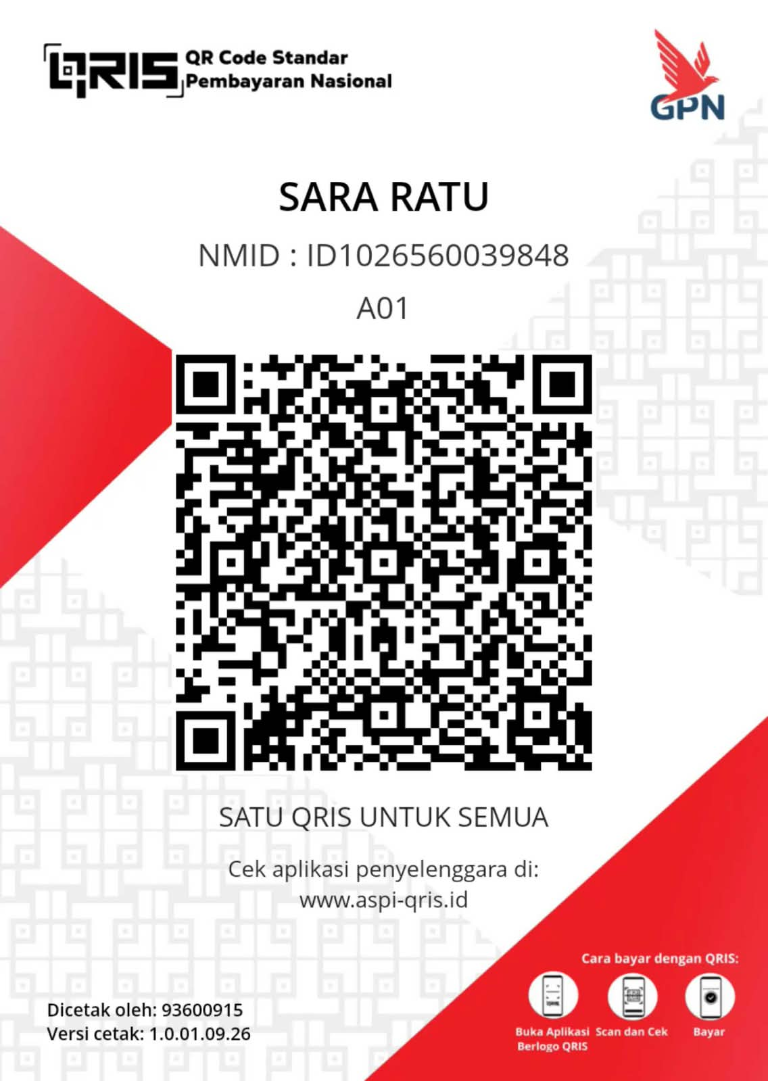
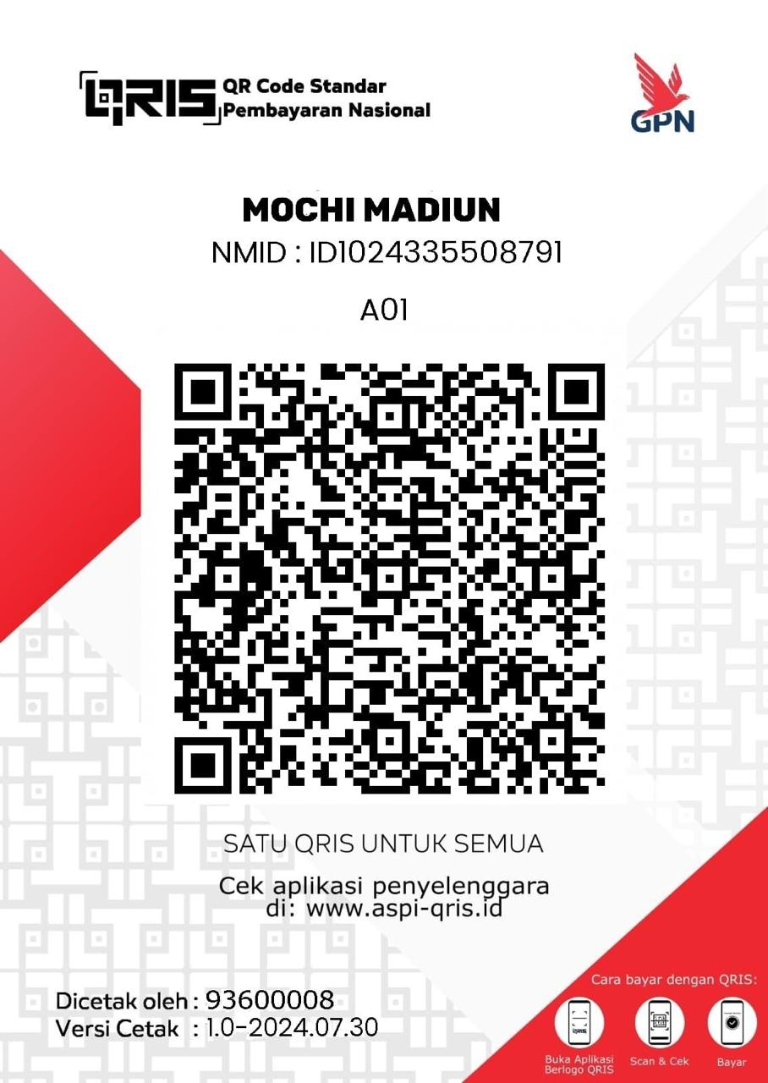
Perbarui QRIS dan rapikan antrean order

diff --git a/resources/css/app.css b/resources/css/app.css
@@ -3483,7 +3483,7 @@ body.login-page {
 
 .customer-order-queue {
     display: grid;
-    grid-template-columns: repeat(2, minmax(0, 1fr));
+    grid-template-columns: repeat(auto-fit, minmax(min(100%, 420px), 1fr));
     gap: 14px;
 }
 

diff --git a/resources/views/customer-orders/cashier-index.blade.php b/resources/views/customer-orders/cashier-index.blade.php
@@ -11,7 +11,9 @@
     <header class="catalog-topbar">
         <a class="catalog-brand" href="{{ route('dashboard') }}" aria-label="Beranda Mochi Madiun">
             <img class="mochi-logo" src="{{ asset('images/logo-mochi-madiun.png') }}" alt="">
-            @php($orderNow = now('Asia/Jakarta'))
+            @php
+                $orderNow = now('Asia/Jakarta');
+            @endphp
             <small><time data-live-clock datetime="{{ $orderNow->toIso8601String() }}">{{ $orderNow->locale('id')->translatedFormat('l, d F Y') }} · {{ $orderNow->format('H.i') }}</time></small>
         </a>
     </header>
@@ -72,26 +74,28 @@
                     Ada order baru. <button type="button" data-refresh-order-queue>Muat ulang antrean</button>
                 </div>
                 <section class="customer-order-queue">
-                    @forelse ($orders as $order)
-                        <article class="customer-order-queue-card">
-                            <div class="customer-order-queue-heading">
-                                <div><span>Order #{{ $order->id_pesanan }}</span><time>{{ \Illuminate\Support\Carbon::parse($order->tanggal)->locale('id')->translatedFormat('d M Y, H.i') }}</time></div>
-                                <span class="customer-order-status-pill customer-order-status-{{ \Illuminate\Support\Str::slug($order->status) }}">Menunggu</span>
-                            </div>
-                            <p class="customer-order-queue-customer">Pelanggan <span>· Order daring</span></p>
-                            <p class="customer-order-queue-items">{{ $order->items->map(fn ($item) => ($item->nama_produk ?: 'Produk #'.$item->id_produk).' × '.$item->jumlah)->join(', ') }}</p>
-                            <div class="customer-order-queue-bottom">
-                                <strong>Rp{{ number_format((int) $order->total, 0, ',', '.') }}</strong>
-                                <a class="sales-detail-link sales-history-action" href="{{ route('customer-orders.cashier.show', $order->id_pesanan) }}">Periksa pesanan <span aria-hidden="true">→</span></a>
-                            </div>
-                        </article>
-                    @empty
+                    @if ($orders->isEmpty())
                         <div class="customer-order-empty">
                             <span aria-hidden="true">🔔</span>
                             <strong>Belum ada pesanan aktif</strong>
                             <p>Order yang masuk akan muncul di sini.</p>
                         </div>
-                    @endforelse
+                    @else
+                        @foreach ($orders as $order)
+                            <article class="customer-order-queue-card">
+                                <div class="customer-order-queue-heading">
+                                    <div><span>Order #{{ $order->id_pesanan }}</span><time>{{ \Illuminate\Support\Carbon::parse($order->tanggal)->locale('id')->translatedFormat('d M Y, H.i') }}</time></div>
+                                    <span class="customer-order-status-pill customer-order-status-{{ \Illuminate\Support\Str::slug($order->status) }}">Menunggu</span>
+                                </div>
+                                <p class="customer-order-queue-customer">Pelanggan <span>· Order daring</span></p>
+                                <p class="customer-order-queue-items">{{ $order->items->map(fn ($item) => ($item->nama_produk ?: 'Produk #'.$item->id_produk).' × '.$item->jumlah)->join(', ') }}</p>
+                                <div class="customer-order-queue-bottom">
+                                    <strong>Rp{{ number_format((int) $order->total, 0, ',', '.') }}</strong>
+                                    <a class="sales-detail-link sales-history-action" href="{{ route('customer-orders.cashier.show', $order->id_pesanan) }}">Periksa pesanan <span aria-hidden="true">→</span></a>
+                                </div>
+                            </article>
+                        @endforeach
+                    @endif
                 </section>
             </main>
         </div>

diff --git a/resources/views/customer-orders/track.blade.php b/resources/views/customer-orders/track.blade.php
@@ -39,7 +39,7 @@
                 <section class="customer-order-qris" data-customer-order-qris aria-labelledby="customer-order-qris-title">
                     <h2 id="customer-order-qris-title">Bayar dengan QRIS</h2>
                     <p>Pindai QRIS ini melalui aplikasi pembayaran dan masukkan nominal tepat seperti total pesanan di atas.</p>
-                    <img src="{{ asset('images/qris-merchant-sara-ratu.png') }}" alt="QRIS merchant SARA RATU">
+                    <img src="{{ asset('images/qris-merchant-sara-ratu.png') }}" alt="QRIS merchant Mochi Madiun">
                     <p class="customer-order-qris-warning">Pesanan baru dianggap dibayar setelah kasir memeriksa transaksi masuk di akun merchant. Simpan bukti pembayaran sampai pesanan dikonfirmasi.</p>
                 </section>
             @endif
